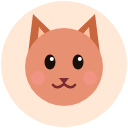
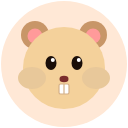
chore: 스토어 아이콘 후보를 햄스터로 교체
- ICON_PET 상수 하나로 B/C/D 주인공이 결정된다
- A 는 16px 대응이라 스프라이트를 확대하지 않고 이목구비를 크게 다시 그림
  (볼 주머니, 둥근 귀, 앞니를 살림)
- B: 손으로 그린 얼굴 대신 스프라이트에서 머리 그룹만 떼어 쓰도록 변경
- D: 햄스터 그림 영역(x 19..74, y 28..73) 기준으로 확대 배율 재계산

diff --git a/store/build.js b/store/build.js
@@ -116,45 +116,45 @@ const iconPage = (body) => page({
 
 const CREAM = '#ffe8d6';
 
-// A. 고양이 얼굴 클로즈업 — 16px 로 줄여도 형태가 남는 쪽
+// 아이콘 주인공. 바꾸려면 여기만 고치면 B/C/D 가 따라간다 (A 는 손으로 그린 얼굴이라 별도).
+const ICON_PET = 'hamster';
+
+// 스프라이트에서 머리 그룹만 떼어낸다 (얼굴 클로즈업용)
+const headGroup = (theme, name) => {
+  const svg = petSvg(theme, name);
+  return svg.slice(svg.indexOf('<g class="pet-head">'), svg.lastIndexOf('</g>') + 4);
+};
+
+// A. 햄스터 얼굴 클로즈업 — 16px 로 줄여도 형태가 남도록 이목구비를 크게 다시 그렸다
 const iconA = iconPage(`
   <circle cx="64" cy="64" r="63" fill="${CREAM}"/>
-  <path d="M28 54 L33 14 L60 40 Z" fill="#c8663d"/>
-  <path d="M100 54 L95 14 L68 40 Z" fill="#c8663d"/>
-  <path d="M37 47 L39 27 L50 40 Z" fill="#ffc4a8"/>
-  <path d="M91 47 L89 27 L78 40 Z" fill="#ffc4a8"/>
-  <circle cx="64" cy="67" r="39" fill="#e89072"/>
-  <ellipse cx="50" cy="62" rx="5.5" ry="7.5" fill="#1a0e08"/>
-  <ellipse cx="78" cy="62" rx="5.5" ry="7.5" fill="#1a0e08"/>
-  <circle cx="51.8" cy="59" r="2" fill="#fff"/>
-  <circle cx="79.8" cy="59" r="2" fill="#fff"/>
-  <path d="M59 78 L69 78 L64 84 Z" fill="#7a2d2d"/>
-  <path d="M64 84 Q57 90 53 85 M64 84 Q71 90 75 85"
-        stroke="#7a2d2d" stroke-width="2.6" fill="none" stroke-linecap="round"/>
-  <circle cx="38" cy="78" r="7" fill="#ff9a9a" opacity="0.45"/>
-  <circle cx="90" cy="78" r="7" fill="#ff9a9a" opacity="0.45"/>
+  <circle cx="35" cy="35" r="14" fill="#c89668"/>
+  <circle cx="93" cy="35" r="14" fill="#c89668"/>
+  <circle cx="35" cy="36" r="7.5" fill="#ff9a9a"/>
+  <circle cx="93" cy="36" r="7.5" fill="#ff9a9a"/>
+  <circle cx="64" cy="68" r="41" fill="#f4d19b"/>
+  <ellipse cx="32" cy="78" rx="14" ry="11" fill="#e8c89a"/>
+  <ellipse cx="96" cy="78" rx="14" ry="11" fill="#e8c89a"/>
+  <ellipse cx="51" cy="63" rx="5.5" ry="7" fill="#1a0e08"/>
+  <ellipse cx="77" cy="63" rx="5.5" ry="7" fill="#1a0e08"/>
+  <circle cx="52.8" cy="60" r="2" fill="#fff"/>
+  <circle cx="78.8" cy="60" r="2" fill="#fff"/>
+  <ellipse cx="64" cy="79" rx="4.5" ry="3.2" fill="#7a2d2d"/>
+  <rect x="59" y="84" width="10" height="10" rx="1.6" fill="#fff" stroke="#d4b088" stroke-width="1.2"/>
+  <line x1="64" y1="84" x2="64" y2="94" stroke="#d4b088" stroke-width="1.2"/>
 `);
 
 // B. 방석 위에 웅크린 고양이 — 확장의 시그니처 조합
 const iconB = iconPage(`
   <circle cx="64" cy="64" r="63" fill="${CREAM}"/>
   <g transform="translate(64 78) scale(0.66) translate(-50 -50)">${houseSvg('normal')}</g>
-  <g transform="translate(62 58) scale(0.5) translate(-64 -64)">
-    <path d="M28 54 L33 14 L60 40 Z" fill="#c8663d"/>
-    <path d="M100 54 L95 14 L68 40 Z" fill="#c8663d"/>
-    <path d="M37 47 L39 27 L50 40 Z" fill="#ffc4a8"/>
-    <path d="M91 47 L89 27 L78 40 Z" fill="#ffc4a8"/>
-    <circle cx="64" cy="67" r="39" fill="#e89072"/>
-    <path d="M40 62 Q50 54 60 62" stroke="#1a0e08" stroke-width="5" fill="none" stroke-linecap="round"/>
-    <path d="M68 62 Q78 54 88 62" stroke="#1a0e08" stroke-width="5" fill="none" stroke-linecap="round"/>
-    <path d="M59 80 L69 80 L64 86 Z" fill="#7a2d2d"/>
-  </g>
+  <g transform="translate(64 56) scale(1.9) translate(-60 -42)">${headGroup('normal', ICON_PET)}</g>
   <text x="92" y="40" font-size="24" font-family="system-ui" fill="#a98a6e" font-weight="800">z</text>
   <text x="104" y="24" font-size="16" font-family="system-ui" fill="#c0a288" font-weight="800">z</text>
 `);
 
 // C. 도트 고양이 얼굴 — 실제 도트 테마 격자를 그대로 확대
-const catDef = assets.PIXEL_PET_DEFS.cat;
+const catDef = assets.PIXEL_PET_DEFS[ICON_PET];
 // 머리 격자 크기에서 칸 크기와 여백을 역산한다. 격자 칸수를 상수로 박으면 스프라이트를 고칠 때 잘린다.
 const HEAD_W = Math.max(...catDef.head.rows.map((r) => r.length));
 const HEAD_H = catDef.head.rows.length;
@@ -178,8 +178,8 @@ const iconC = iconPage(`
 
 // D. 배경 없이 고양이 전신 — 툴바에서 배경 원 없이 뜨는 쪽
 const iconD = iconPage(`
-  <g transform="translate(64 64) scale(1.72) translate(-39 -45)">
-    ${petSvg('normal', 'cat').replace(/<\/?svg[^>]*>/g, '')}
+  <g transform="translate(64 64) scale(2) translate(-46.5 -50.5)">
+    ${petSvg('normal', ICON_PET).replace(/<\/?svg[^>]*>/g, '')}
   </g>
 `);
 

diff --git a/store/preview.html b/store/preview.html
@@ -176,10 +176,10 @@
 
   <script>
     const ICONS = [
-      ['icon-a', 'A. 고양이 얼굴', '단순하고 큼직해서 16px 에서 가장 잘 버팀'],
+      ['icon-a', 'A. 햄스터 얼굴', '이목구비를 크게 다시 그림. 16px 에서 가장 잘 버팀'],
       ['icon-b', 'B. 방석 위 낮잠', '확장의 시그니처 조합. 요소가 많아 작아지면 뭉개짐'],
-      ['icon-c', 'C. 도트 고양이', '실제 도트 테마 격자 그대로. 각져서 작아도 형태가 남음'],
-      ['icon-d', 'D. 고양이 전신', '배경 원 없이 투명. 툴바에서 배경과 섞임'],
+      ['icon-c', 'C. 도트 햄스터', '실제 도트 테마 격자 그대로. 각져서 작아도 형태가 남음'],
+      ['icon-d', 'D. 햄스터 전신', '배경 원 없이 투명. 툴바 배경색과 그대로 섞임'],
     ];
     const SHOTS = [
       ['shot-1', '1. 다섯 마리 소개'],
